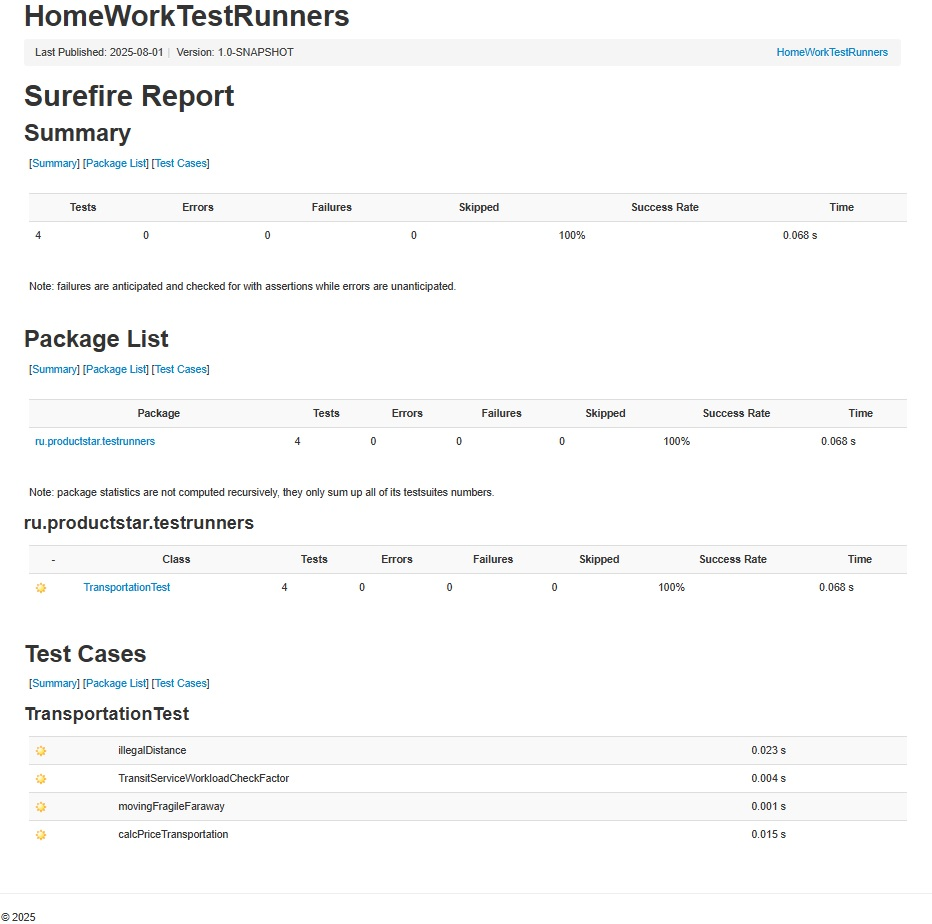
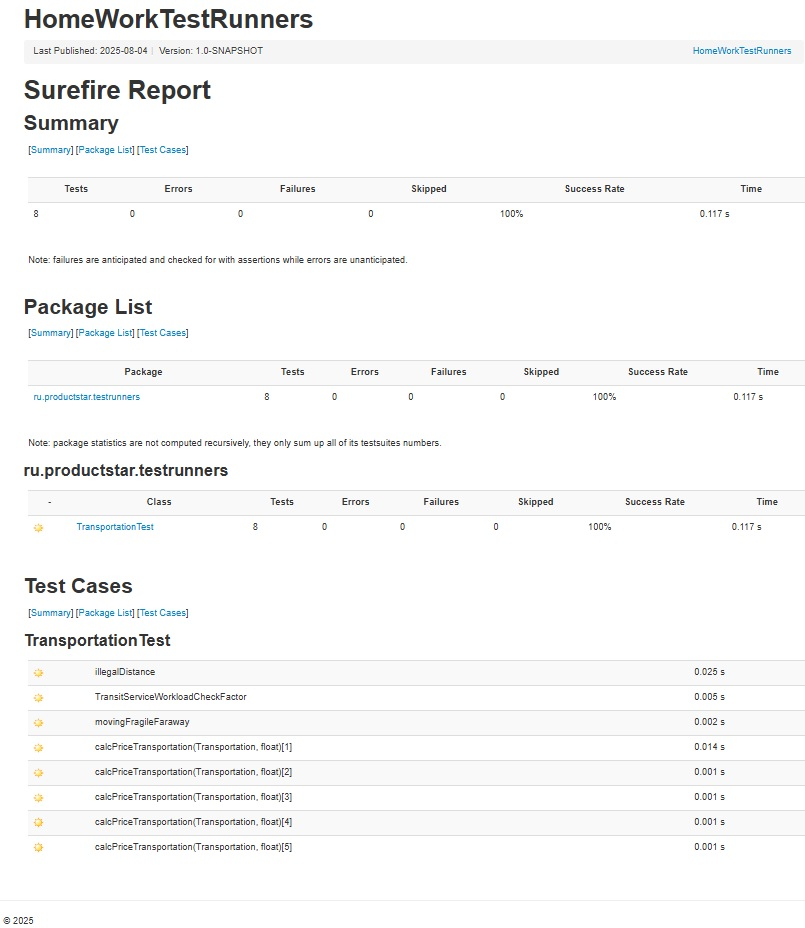
01 - acceptance version

diff --git a/src/test/java/ru/productstar/testrunners/TransportationTest.java b/src/test/java/ru/productstar/testrunners/TransportationTest.java
@@ -4,7 +4,15 @@ package ru.productstar.testrunners;
 import org.junit.jupiter.api.DisplayName;
 import org.junit.jupiter.api.Tag;
 import org.junit.jupiter.api.Test;
+import org.junit.jupiter.api.extension.ExtensionContext;
+import org.junit.jupiter.params.ParameterizedTest;
+import org.junit.jupiter.params.provider.Arguments;
+import org.junit.jupiter.params.provider.ArgumentsProvider;
+import org.junit.jupiter.params.provider.ArgumentsSource;
+import org.junit.jupiter.params.support.ParameterDeclarations;
 import ru.productstar.testrunners.exceptions.MovingFragileFarawayException;
+
+import java.util.stream.Stream;
 
 import static org.junit.jupiter.api.Assertions.*;
 
@@ -23,44 +31,40 @@ class TransportationTest {
         );
     }
 
-    @Test
     @Tag("Smoke")
-    @ParametrizedTest
+    @ParameterizedTest
+    @ArgumentsSource(CalcPriceArgumentsProvider.class)
     @DisplayName("Расчеты стоимости тестовые")
-    void calcPriceTransportation() {
-        Transportation transportation01 = new Transportation(1, TransitServiceWorkload.NORMAL, false, false);
-        Transportation transportation02 = new Transportation(25, TransitServiceWorkload.LITTLEHIGH, false, false);
-        Transportation transportation03 = new Transportation(10, TransitServiceWorkload.LITTLEHIGH, true, false);
-        Transportation transportation04 = new Transportation(30, TransitServiceWorkload.VERYHIGH, true, true);
-        Transportation transportation05 = new Transportation(2147483647, TransitServiceWorkload.MEDIUMHIGH, true, false);
-        float price01 = 150;
-        float price02 = 360;
-        float price03 = 360;
-        float price04 = 1120;
-        float price05 = 700;
-        assertAll(
-                () -> assertEquals(price01, Transportation.getCurrentPrice(transportation01), "Неверно посчитана цена" + " для " + transportation01.toString() + " Расчетная цена " + Transportation.getCurrentPrice(transportation01)),
-                () -> assertEquals(price02, Transportation.getCurrentPrice(transportation02), "Неверно посчитана цена" + " для " + transportation02.toString() + " Расчетная цена " + Transportation.getCurrentPrice(transportation02)),
-                () -> assertEquals(price03, Transportation.getCurrentPrice(transportation03), "Неверно посчитана цена" + " для " + transportation03.toString() + " Расчетная цена " + Transportation.getCurrentPrice(transportation03)),
-                () -> assertEquals(price04, Transportation.getCurrentPrice(transportation04), "Неверно посчитана цена" + " для " + transportation04.toString() + " Расчетная цена " + Transportation.getCurrentPrice(transportation04)),
-                () -> assertEquals(price05, Transportation.getCurrentPrice(transportation05), "Неверно посчитана цена" + " для " + transportation05.toString() + " Расчетная цена " + Transportation.getCurrentPrice(transportation05))
-        );
+    void calcPriceTransportation(Transportation transportation, float price) {
+        assertEquals(price, Transportation.getCurrentPrice(transportation), "Неверно посчитана цена" + " для " + transportation.toString() + " Расчетная цена " + Transportation.getCurrentPrice(transportation));
     }
 
     @Test
     @Tag("Negative")
     @DisplayName("Некорректно указано расстояние перевозки")
     void illegalDistance() {
-        assertThrows(IllegalArgumentException.class, () -> new  Transportation(0, TransitServiceWorkload.NORMAL, false, false) ) ;
-        assertThrows(RuntimeException.class, () -> new  Transportation(-1 , TransitServiceWorkload.NORMAL, false, false) ) ; // Проверка, что IllegalArgumentException унаследован от RuntimeException (на всякий случай)
+        assertThrows(IllegalArgumentException.class, () -> new Transportation(0, TransitServiceWorkload.NORMAL, false, false));
+        assertThrows(RuntimeException.class, () -> new Transportation(-1, TransitServiceWorkload.NORMAL, false, false)); // Проверка, что IllegalArgumentException унаследован от RuntimeException (на всякий случай)
     }
 
     @Test
     @Tag("Negative")
     @DisplayName("Хрупкую вещь слишком далеко везут")
     void movingFragileFaraway() {
-        assertThrows(MovingFragileFarawayException.class, () -> new  Transportation(31, TransitServiceWorkload.NORMAL, false, true) ) ;
-        assertThrows(RuntimeException.class, () -> new  Transportation(31 , TransitServiceWorkload.NORMAL, false, true) ) ; // Проверка, что IllegalArgumentException унаследован от MovingFragileFarawayException (на всякий случай)
+        assertThrows(MovingFragileFarawayException.class, () -> new Transportation(31, TransitServiceWorkload.NORMAL, false, true));
+        assertThrows(RuntimeException.class, () -> new Transportation(31, TransitServiceWorkload.NORMAL, false, true)); // Проверка, что IllegalArgumentException унаследован от MovingFragileFarawayException (на всякий случай)
     }
 
+    static class CalcPriceArgumentsProvider implements ArgumentsProvider {
+        @Override
+        public Stream<? extends Arguments> provideArguments(ExtensionContext context) {
+            return Stream.of(
+                    Arguments.of(new Transportation(1, TransitServiceWorkload.NORMAL, false, false), 150f),
+                    Arguments.of(new Transportation(25, TransitServiceWorkload.LITTLEHIGH, false, false), 360f),
+                    Arguments.of(new Transportation(10, TransitServiceWorkload.LITTLEHIGH, true, false), 360f),
+                    Arguments.of(new Transportation(30, TransitServiceWorkload.VERYHIGH, true, true), 1120f),
+                    Arguments.of(new Transportation(2147483647, TransitServiceWorkload.MEDIUMHIGH, true, false), 700f)
+            );
+        }
+    }
 }

diff --git a/src/main/java/ru/productstar/testrunners/exceptions/MovingFragileFarawayException.java b/src/main/java/ru/productstar/testrunners/exceptions/MovingFragileFarawayException.java
@@ -1,8 +1,6 @@
 package ru.productstar.testrunners.exceptions;
 
 public class MovingFragileFarawayException extends RuntimeException{
-    public MovingFragileFarawayException() {
-    }
     public MovingFragileFarawayException(String message) {
         super(message);
     }

diff --git a/README.md b/README.md
@@ -15,23 +15,51 @@
 
 ## Подключенные зависимости и плагины
 - junit-jupiter-engine - это основной движок тестирования для JUnit 5, отвечающий за запуск тестов (взята версия 5.13.4 для совместимости с остальными продуктами)
+- junit-jupiter-params - библиотека для создания параметризованных тестов в JUnit 5(для @ParametrizedTest)
   
 ### Для html отчета JUnit5
-- maven-surefire-plugin - основной плагин для изготовления отчёта с помощью JUnit5
+- maven-surefire-plugin - основной плагин для изготовления отчёта с помощью surefire JUnit5
 - junit-jupiter-api - модуль фреймворка JUnit 5 предоставляет API на основе аннотаций для написания модульных тестов. (необходим для surefire)
 
+### Для html отчета Allure
+- allure-maven - основной плагин для изготовления отчёта с помощью Allure
+- allure-junit5 - модуль Allure Framework, который работает с фреймворком JUnit 5.
+- junit-platform-launcher — модуль фреймворка JUnit 5, который предоставляет программный интерфейс для запуска тестов на платформе JUnit. Он обеспечивает стандартизированный способ обнаруживать, выбирать и выполнять тесты программно, что позволяет разрабатывать собственные движки тестов, средства запуска тестов и другие инструменты, интегрирующиеся с экосистемой JUnit.
+
 ## Описание основных файлов
+- main/java/ru/productstar/testrunners/Transportation.java - основной класс реализации задания
 - main/java/ru/productstar/testrunners/TransitServiceWorkload.java - класс со списком (enum) коэффициентов по загруженности
-  main/java/ru/productstar/testrunners/Transportation.java - основной класс реализации задания
-- 
+- main/java/ru/productstar/testrunners/MovingFragileFarawayException.java - класс для исключения(RuntimeException) по недопустимости перевозки хрупких грузов на дальние расстояния
+
 - test/java/ru/productstar/basejunit/TransportationTest.java - тесты задания
 
+- "ДЗ _ Тест-раннеры юнит-тестирования для Java_ JUnit, TestNG.pdf" - задача для расчета стоимости поставки в pdf -формате
 - "HTML отчет о тестирование surefire.jpg" - принтскрин результатов отчёта surefire
+- "HTML отчет о тестирование allure.jpg" - принтскрин результата одной из страничек отчёта allure
+- "HTML отчет о покрытии тестами.jpg" - принтскрин результата одной из страничек отчёта allure
 
 ## Дополнительная информация
 
-Как генерировать html-отчёт с помощью surefire хорощо описано по ссылке https://habr.com/ru/articles/590199/ .
+- surefire
 
-Если вкратце - то с подключенным плагином результаты тестирования (команда mvn test) автоматом складываются в директорию \target\surefire-reports в форматах txt и xml ,
+Как генерировать html-отчёт с помощью surefire хорошо описано по ссылке https://habr.com/ru/articles/590199/ .
+Если вкратце - то с подключенным плагином результаты тестирования (команда mvn surefire:test) автоматом складываются в директорию \target\surefire-reports в форматах txt и xml ,
 а по команде mvn surefire-report:report из них в директорию target\reports генерится красивый файл surefire.html (с css и тд). 
 Принтскрин примера представлен в файле "HTML отчет о тестирование surefire.jpg" .
+
+- allure
+
+Вначале скачивается в инете сам продукт allure (allure-2.34.1.zip), распаковывается и настраивается PATH на bin.
+Для генерации html-отчета с помощью allure в проекте необходимо дополнительно подключить один плагин и две библиотеки (описаны в соответствующем разделе).
+После этого при прогоне mvn test данные о результатах тестирования складываются по умолчанию в директорию проекта allure-results (файлы json).
+Для генерации и просмотра html необходимо выполнить команду из корня папки приложения allure serve allure-results - после отработки на компе запускается 
+сервер allure и открывается в браузере страничка соответствующего отчёта о тестировании. Принтскрин примера одной из закладок представлен в файле "HTML отчет о тестирование allure.jpg" .
+Достаточно популярное описание страницы allure по ссылке https://habr.com/ru/companies/sberbank/articles/358836/ .
+
+- процент покрытия
+
+Для получения процента покрытия тестами в IntelliJ IDEA необходимо запустить тест выбрав в меню запуска пункт "Run <имя_теста> with Coverage" (отрабатывался при настроенном allure).
+После отработки появится окно "Coverage", в котором можно будет нажать один из значков с надписью 
+"Generate Coverage Report...". Далее указываем директорий и туда генерится красивая html-страничка по покрытию проекта тестами.
+Принтскрин примера одной из страниц анализа покрытия тестами представлен в файле "HTML отчет о покрытии тестами.jpg".
+
